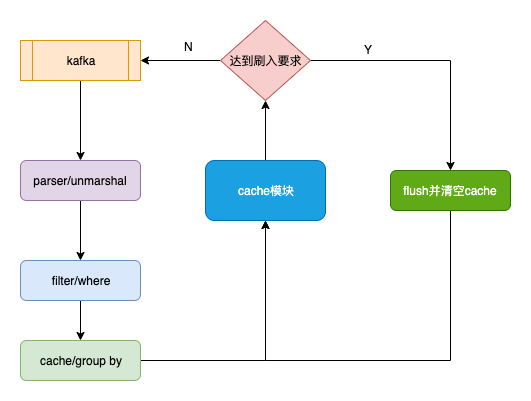
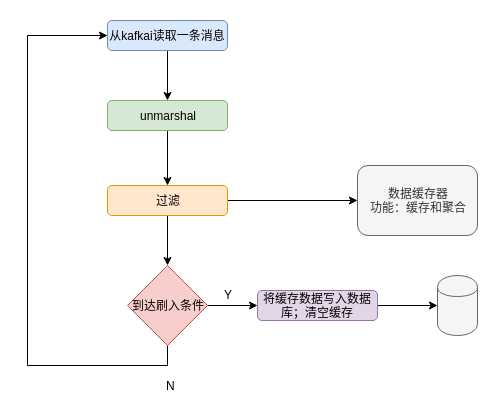
add doc

diff --git a/youmi/基础服务.md b/youmi/基础服务.md
@@ -1,0 +1,47 @@
+## k2sql
+一个消费kafka数据然后写入数据库的服务。使用方法见README或者线上服务的配置
+<p align="center">
+<img src="./img/k2sql.png" alt="drawing" width="450"/>
+</p>
+
+
+## yugong
+跨数据库操作的工具：
+- 从数据库dim查询出条件数据
+- 根据条件数据从数据库src查询出目标数据
+- 将目标数据插入到数据库dst
+
+<p align="center">
+<img src="./img/yugong.png" alt="drawing" width="450"/>
+</p>
+
+
+使用方法参见baton中的任务，或者yugong的readme。大致流程如下：
+```
+rows = []
+if not query_dims:
+    rows =[{}] // 至少执行一次
+else:
+    rows = select(dims, query_dims)
+
+for row in rows:
+    // 执行prepare语句，prepare可以有多条
+    for pre in prepares:
+        execute(dst, pre)
+
+    // 执行query_dims中的select子句
+    data = select(src, select, row)
+    // 执行query_dims中的insert子句，插入dst
+    execute(dst, insert, data)
+
+    // 执行after操作，after可以有多条
+    for aft in after:
+        execute(dst, aft)
+```
+
+## baton
+见其readme
+
+<p align="center">
+<img src="./img/baton.png" alt="drawing" width="500"/>
+</p>

diff --git a/youmi/链接检测.md b/youmi/链接检测.md
@@ -30,6 +30,7 @@
 <p align="center">
 <img src="./img/proxy_track.png" alt="drawing" width="500"/>
 </p>
+
 1. addetect服务定期查询db10，将那些长时间没有检测的广告查出来（根据last_edited）
 2. 请求链接检测服务adtrack：os、country、zone（流量类型）、url等
 3. adtrack返回每跳结果

diff --git a/youmi/曾纪文工作交接.md b/youmi/曾纪文工作交接.md
@@ -1,0 +1,6 @@
+![](./img/obg_adn.png)
+
+## 业务相关
+
+
+## 基础服务
